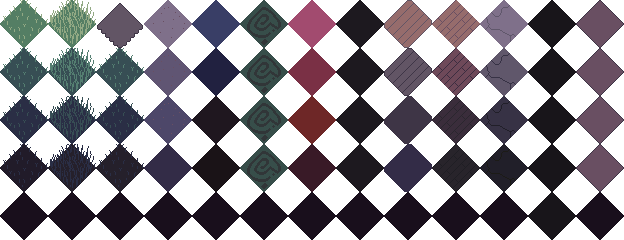
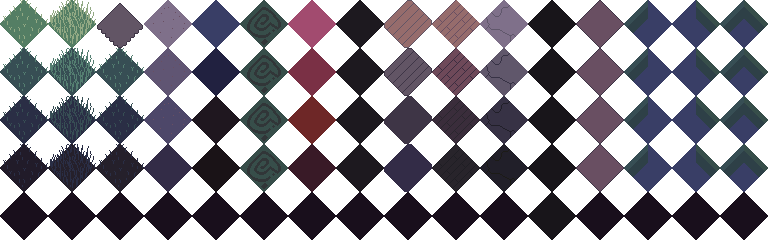
saving

diff --git a/bleed-client/lib/modules/isometric/actions.dart b/bleed-client/lib/modules/isometric/actions.dart
@@ -167,7 +167,27 @@ class IsometricActions with IsometricScope {
     tileLeft.clear();
     for (int row = 0; row < tiles.length; row++) {
       for (int column = 0; column < tiles[0].length; column++) {
-        tileLeft.add(mapTileToSrcLeft(tiles[row][column]));
+        final tile = tiles[row][column];
+
+        final tileAboveLeft = row > 0 && tiles[row - 1][column] != Tile.Water;
+        final tileAboveRight = column + 1 < tiles[0].length && tiles[row][column + 1] != Tile.Water;
+
+
+        if (tile == Tile.Water){
+          if (!tileAboveLeft && !tileAboveRight){
+            tileLeft.add(water);
+          }else if (tileAboveLeft){
+            if (tileAboveRight){
+              tileLeft.add(waterCorner3);
+            }else{
+              tileLeft.add(waterCorner1);
+            }
+          }else{
+            tileLeft.add(waterCorner2);
+          }
+        } else {
+          tileLeft.add(mapTileToSrcLeft(tile));
+        }
       }
     }
 

diff --git a/bleed-client/lib/mappers/mapTileToSrcRect.dart b/bleed-client/lib/mappers/mapTileToSrcRect.dart
@@ -19,7 +19,7 @@ double mapTileToSrcLeft(Tile tile) {
     case Tile.Block_Vertical:
       return _block;
     case Tile.Water:
-      return _water;
+      return water;
     case Tile.Long_Grass:
       return _longGrass;
     case Tile.Flowers:
@@ -53,7 +53,7 @@ final _block = _frame(3);
 final _concrete = _frame(4);
 final _concreteHorizontal = _concrete;
 final _concreteVertical =  _concrete;
-final _water = _frame(5);
+final water = _frame(5);
 final _rune = _frame(6);
 final _zombieSpawn = _frame(7);
 final _flowers = _longGrass;
@@ -63,6 +63,10 @@ final _woodenFloor = _frame(10);
 final _rock = _frame(11);
 final _black = _frame(12);
 final _rockWall = _frame(13);
+
+final waterCorner1 = _frame(14);
+final waterCorner2 = _frame(15);
+final waterCorner3 = _frame(16);
 
 const int tileCanvasWidth = 48;
 double _frame(int index) => (index - 1) * tileCanvasWidth.toDouble();

diff --git a/bleed-client/lib/modules/editor/render.dart b/bleed-client/lib/modules/editor/render.dart
@@ -19,8 +19,7 @@ class EditorRender with EditorScope {
   void render(Canvas canvas, Size size) {
     isometric.render.tiles();
 
-    renderTilePreview();
-
+    // renderTilePreview();
     isometric.render.sprites();
     _drawSelectedObject();
     _drawCharacters();

diff --git a/bleed-client/README.md b/bleed-client/README.md
@@ -104,6 +104,7 @@
 [ ] Break Crates
 [ ] Weapon UI
 [ ] Spawn Item Locations
+[ ] Dynamic Objects (objects which move around the map and can be removed and added)
 [CORE]
 [ ] FIX Google Login
 [COMPLETED]
